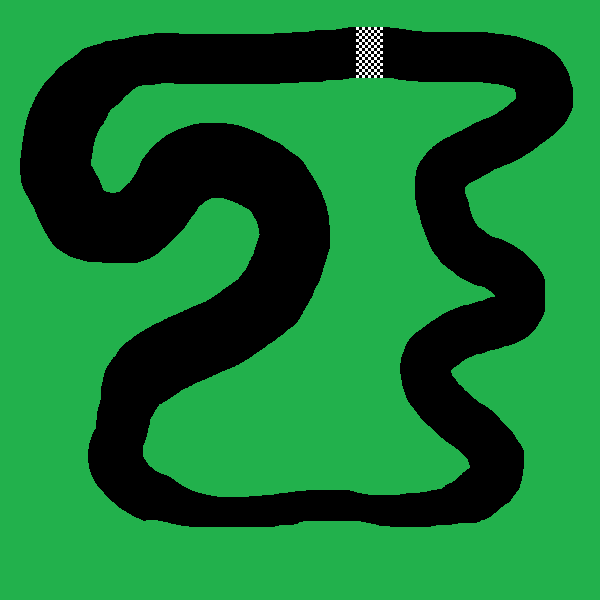
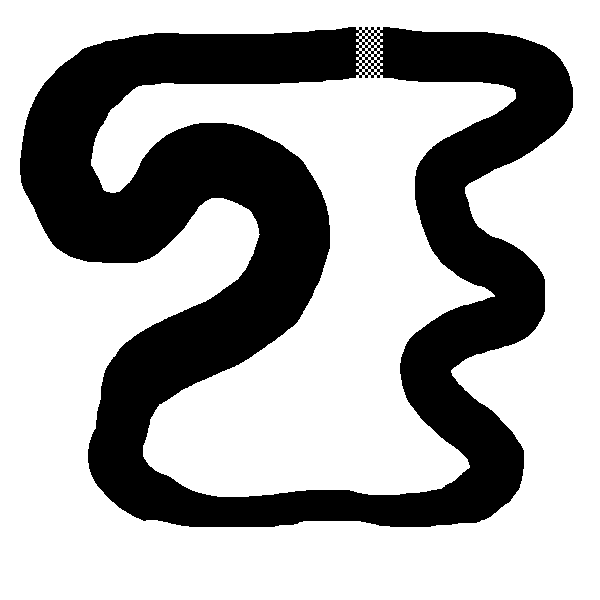
added collision and game over

diff --git a/main.py b/main.py
@@ -5,6 +5,7 @@ import numpy as np
 import math
 import keyboard
 import car_class
+import race_track
 
 pygame.init()
 
@@ -16,172 +17,11 @@ CAR_IMG = pygame.transform.scale_by(pygame.image.load(os.path.join("imgs", "red_
 
 TEXT_FONT = pygame.font.SysFont("comicsan", 20)
 
-class Old_Car:
-    IMG = CAR_IMG
-
-    def __init__(self, pos):
-        self.pos = np.array([float(pos[0]), float(pos[1])])  # 2d vector
-        self.vel = np.zeros(2)  # 2d vector
-        self.speed = 0  # scalar speed
-        #self.acceleration = np.zeros(2)  # 2d vector
-        self.direction_vector = np.array([1, 0])
-        self.rotation = 180  # scalar angle
-        self.reverse = False
-        self.stopped = True
-
-        self.engine_max_force = 200  # change value later
-        self.drag_coef = 0.005
-        self.friction_coef = self.drag_coef * 30
-        self.engin_braking = 0.5
-        #self.friction_coef = 0.3  # change value later    friction is approx 30x drag
-        self.mass = 0.5
-
-        self.img_rect = None
-        self.rotated_img = None
-
-    def get_speed(self, velocity=None):
-        if velocity is None:
-            velocity = self.vel
-        return math.sqrt(velocity[0] ** 2 + velocity[1] ** 2)  # scalar speed
-
-    def get_direction_vector(self, velocity=None):
-        if velocity is None:
-            velocity = self.vel
-        speed = self.get_speed(velocity)
-        if self.speed != 0:
-            return velocity / speed
-        else:
-            return self.direction_vector
-
-    def get_rotation(self, direction_vector=None):         # rotation from direction vector (or velocity)
-        if direction_vector is None:
-            direction_vector = self.direction_vector
-
-        if self.reverse:
-            return math.degrees(math.atan2(direction_vector[0], -direction_vector[1])) + 90
-        else:
-
-            return math.degrees(math.atan2(direction_vector[0], -direction_vector[1])) - 90
-
-    def update(self):
-        self.speed = self.get_speed()
-        self.direction_vector = self.get_direction_vector()
-        self.rotation = self.get_rotation()
-
-        if self.speed == 0:
-            self.stopped = True
-        else:
-            self.stopped = False
-
-        """    def forward(self, throttle: float = 0, delta_time: float = 1/FPS, tick=-1):
-        if self.reverse:
-            return self.breaking(throttle, delta_time, tick)
-        else:
-            return self.gas( throttle, delta_time, tick)
-
-    def backward(self, throttle: float = 0, delta_time: float = 1/FPS, tick=-1):
-        if self.reverse:
-            return self.gas(throttle, delta_time, tick)
-        else:
-            return self.breaking(throttle, delta_time, tick)"""
-
-    def get_acceleration(self, throttle: float = 0):
-
-        # calculate acceleration
-        traction_force = self.direction_vector * throttle * self.engine_max_force
-        drag = - self.drag_coef * self.vel * self.speed     # -C*v^2 but 2d vector
-        friction = - self.friction_coef * self.vel          # -C*v but 2d vector
-
-        net_force = traction_force + drag + friction
-
-        # engine braking
-        if throttle == 0:
-            net_force -= self.engin_braking * self.direction_vector
-
-        acceleration = net_force/self.mass
-
-        return acceleration
-
-    """
-    def breaking(self, throttle: float = 0, delta_time: float = 1/FPS, tick = -1):
-        if self.stopped:
-            self.reverse = True
-
-        # calculate acceleration
-        traction_force = -self.direction_vector * throttle * self.engine_max_force
-        drag = - self.drag_coef * self.vel * self.speed  # -C*v^2 but 2d vector
-        friction = - self.friction_coef * self.vel
-        acceleration = (traction_force + drag + friction) / self.mass
-
-        return acceleration"""
-
-    def set_new_velocity_state(self, new_velocity, throttle):          # change name later
-
-        if self.stopped:
-            if throttle > 0:
-                self.reverse = False
-                self.stopped = False
-                self.vel = new_velocity
-            elif throttle < 0:
-                self.reverse = True
-                self.stopped = False
-                self.vel = new_velocity
-            self.vel = np.zeros(2)
-        else:
-            new_rotation = self.get_rotation(new_velocity)
-            change_in_rotation = abs(new_rotation - self.rotation)
-            if change_in_rotation > 90:      # vel has been reversed
-                print("reversed -> stopped")
-                self.vel = np.zeros(2)
-                self.stopped = True
-            else:
-                self.vel = new_velocity
+# green color = rgba(34,177,76,255)
 
 
-    def move(self, throttle: float = 0, turn: float = 0, delta_time: float = 1 / MAX_FPS, tick=-1):
-        # update all variables
-        self.update()
-
-        # calculate acceleration
-        acceleration = self.get_acceleration(throttle)
-
-        # new velocity
-        new_vel = self.vel + acceleration * delta_time
-        self.set_new_velocity_state(new_vel, throttle)
-
-        # new position
-        self.pos += self.vel * delta_time
-
-        self.update()
-
-        print(f"{tick}: vel= {self.vel}, stopped= {self.stopped}, reverse= {self.reverse}")
-
-
-        #self.rotation += turn * self.rotation_speed * delta_time
-        #_x, _y = self.pos
-
-        #_x += self.vel
-        #self.pos = (_x, _y)
-
-        """
-        self.vel += gas * self.acceleration * delta_time
-        if abs(self.vel) < 0.001:
-            self.vel = 0
-        else:
-            self.vel -= self.friction * delta_time"""
-
-    def draw(self, win):
-        # self.pos = pygame.mouse.get_pos()
-
-        # Rotate car
-        self.rotated_img = pygame.transform.rotate(self.IMG, self.rotation)
-        self.img_rect = self.rotated_img.get_rect(center=self.pos)
-
-        win.blit(self.rotated_img, self.img_rect)
-
-
-def draw_window(win, car, fps):
-    win.blit(RACE_TRACK_IMG, (0, 0))        # draw background
+def draw_window(win, car, track, fps):
+    track.draw(win)        # draw background
 
     car.draw(win)     # draw car
 
@@ -190,7 +30,21 @@ def draw_window(win, car, fps):
 
     mouse_pos_text = TEXT_FONT.render(f"mouse pos: {pygame.mouse.get_pos()}", 1, (255, 255, 255))
     win.blit(mouse_pos_text, (WIN_WIDTH - mouse_pos_text.get_width() - 10, WIN_HEIGHT - mouse_pos_text.get_height() - 10))
+    """
+    if show_masks:
+        mask_img = track.collide(car)
+        win.blit(mask_img, (0, 0))"""
+    if car.is_dead:
+        die_text = TEXT_FONT.render("You died", 1, (255, 255, 255))
+        win.blit(die_text, (WIN_WIDTH / 2 - die_text.get_width() / 2, WIN_HEIGHT / 2 - die_text.get_height()))
 
+        die_text = TEXT_FONT.render("Press enter to play again", 1, (255, 255, 255))
+        win.blit(die_text, (WIN_WIDTH / 2 - die_text.get_width() / 2, WIN_HEIGHT / 2))
+
+        game_over_screen = pygame.Surface((WIN_WIDTH, WIN_HEIGHT))
+        game_over_screen.fill((0, 0, 0))
+        game_over_screen.set_alpha(160)
+        win.blit(game_over_screen, (0, 0))
     pygame.display.update()
 
 
@@ -199,7 +53,8 @@ def main():
     win = pygame.display.set_mode((WIN_WIDTH, WIN_HEIGHT))
     clock = pygame.time.Clock()
 
-    car = car_class.Car((374, 55), CAR_IMG)
+    track = race_track.RaceTrack(RACE_TRACK_IMG, (374, 55), (34, 177, 76), (WIN_WIDTH, WIN_HEIGHT))
+    car = car_class.Car(track.start_pos, CAR_IMG)
 
     for i in range(8):
         vector = np.around(car.get_direction_vector_from_rotation(i*45), 2)
@@ -219,6 +74,7 @@ def main():
                 quit()
         throttle = 0
         steering = 0
+        show_mask = False
         if keyboard.is_pressed("z") and not keyboard.is_pressed("s"):
             throttle = 1
         elif keyboard.is_pressed("s") and not keyboard.is_pressed("z"):
@@ -227,11 +83,20 @@ def main():
             steering = 1
         elif keyboard.is_pressed("d") and not keyboard.is_pressed("q"):
             steering = -1
+        if car.is_dead and keyboard.is_pressed("enter"):
+            car = car_class.Car(track.start_pos, CAR_IMG)
+        """
+        if keyboard.is_pressed("m"):
+            show_mask = True"""
 
-        car.move(throttle, steering, delta_time, pygame.time.get_ticks())
+        if not car.is_dead:
+            car.move(throttle, steering, delta_time, pygame.time.get_ticks())
+
+        if track.collide(car):
+            car.is_dead = True
 
         # draw window
-        draw_window(win, car, clock.get_fps())
+        draw_window(win, car, track, clock.get_fps())
 
 
 main()

diff --git a/car_class.py b/car_class.py
@@ -25,13 +25,15 @@ class Car:
         self.length = 0.5
 
         self.img = img
-        self.img_rect = None
-        self.rotated_img = None
+        self.rotated_img = pygame.transform.rotate(self.img, self.rotation)
+        self.img_rect = self.rotated_img.get_rect(center=self.pos)          # set coordinate origin in center
 
         self.throttle = 0       # accelerating from -1 to 1
         self.steering_angle = 0       # turning from -40 to 40
 
         self.delta_time = 0
+
+        self.is_dead = False
 
     def draw(self, win):
         # Rotate car
@@ -39,6 +41,9 @@ class Car:
         self.img_rect = self.rotated_img.get_rect(center=self.pos)          # set coordinate origin in center
 
         win.blit(self.rotated_img, self.img_rect)     # draw car
+
+    def get_mask(self):
+        return pygame.mask.from_surface(self.rotated_img)
 
     def move(self, throttle, steering, delta_time, tick):
         self.throttle = abs(throttle)

diff --git a/race_track.py b/race_track.py
@@ -1,0 +1,39 @@
+import pygame
+import numpy as np
+
+
+class CheckPoint:
+
+    def __init__(self):
+        pass
+
+
+class RaceTrack:
+
+    def __init__(self, img, start_pos, bg_color, size):
+        self.img = img
+        self.start_pos = start_pos
+        #self.bg_color = bg_color
+        self.bg = pygame.Surface(size)
+        self.bg.fill(bg_color)
+        self.checkpoints = []
+
+    def draw(self, win):
+        win.blit(self.bg, (0, 0))
+        win.blit(self.img, (0, 0))
+
+    def collide(self, car):
+        car_mask = car.get_mask()
+        track_mask = pygame.mask.from_surface(self.img)
+        track_mask.invert()
+
+        x, y, w, h = car.img_rect
+        overlap_point = track_mask.overlap(car_mask, (x, y))
+
+        #track_mask.draw(car_mask, (x, y))
+        #mask_img = track_mask.to_surface()
+        if overlap_point:
+            return True
+        return False
+
+
